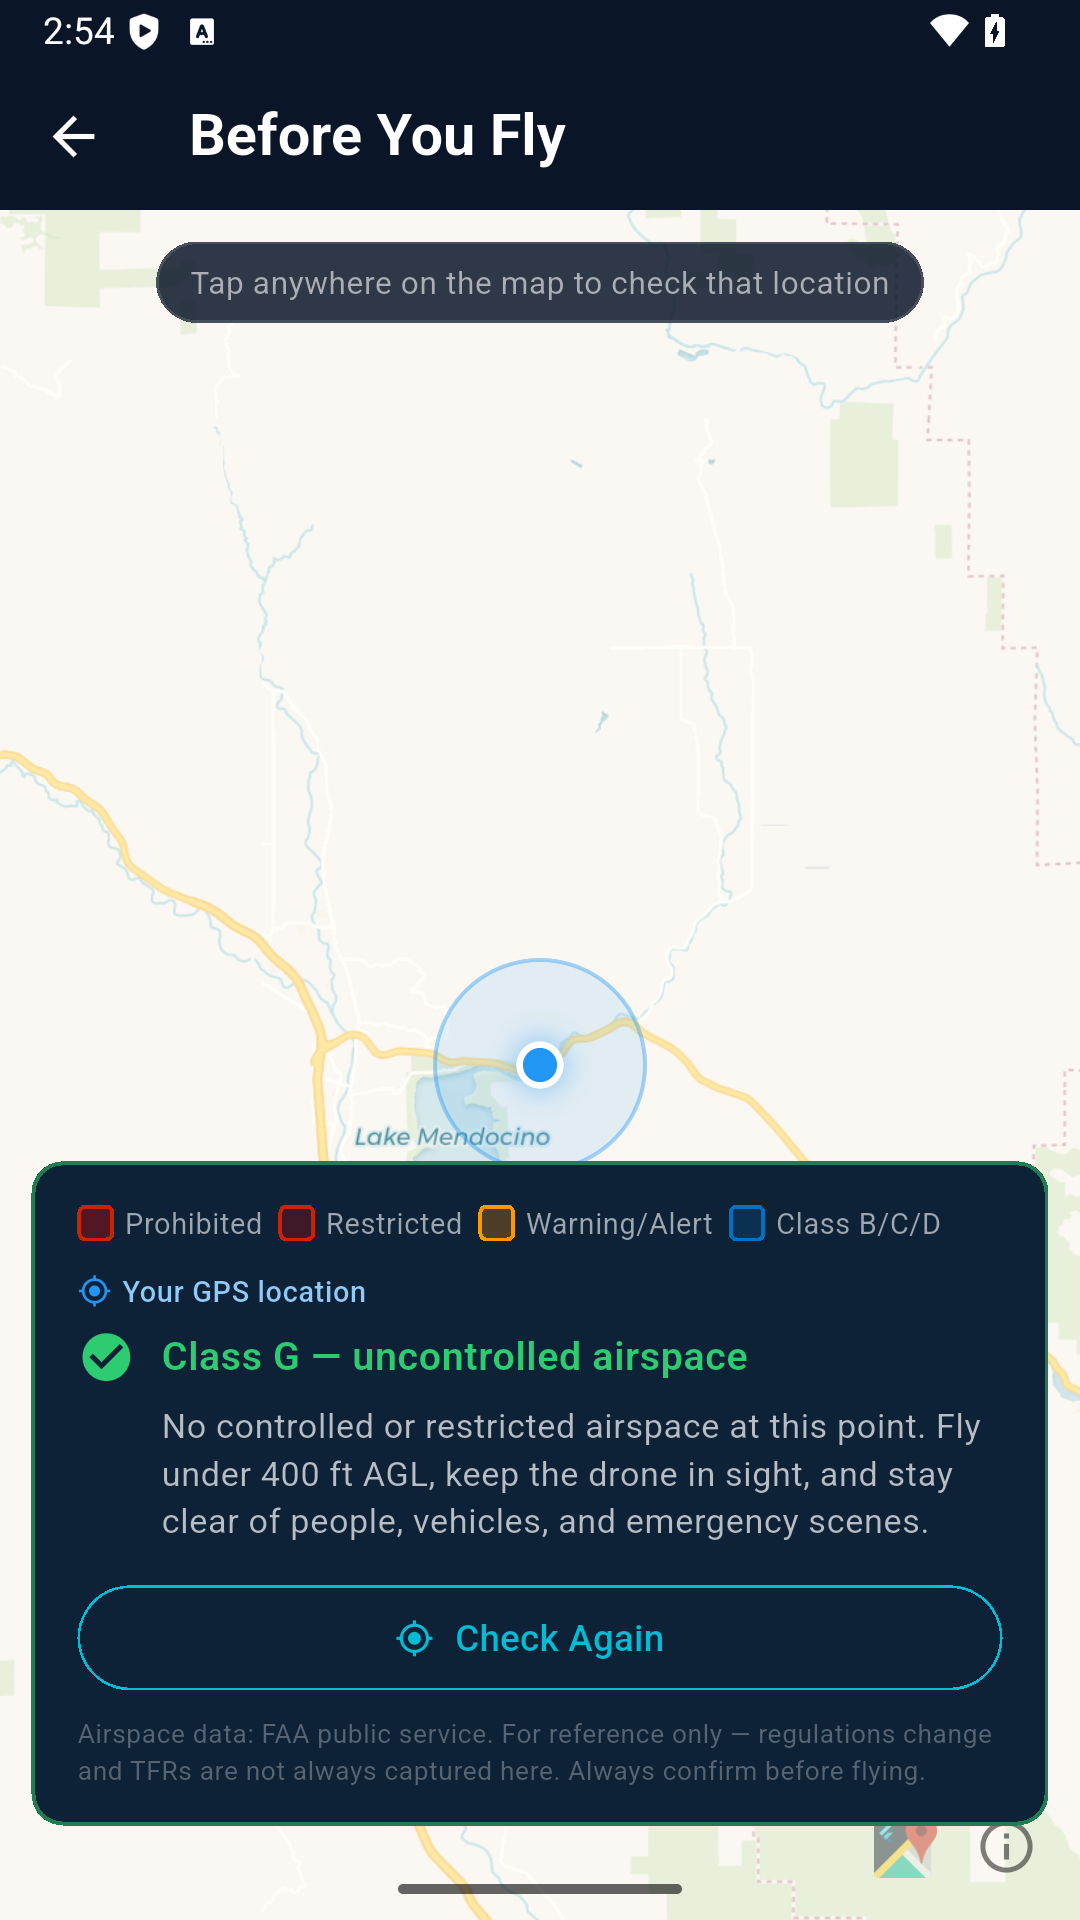
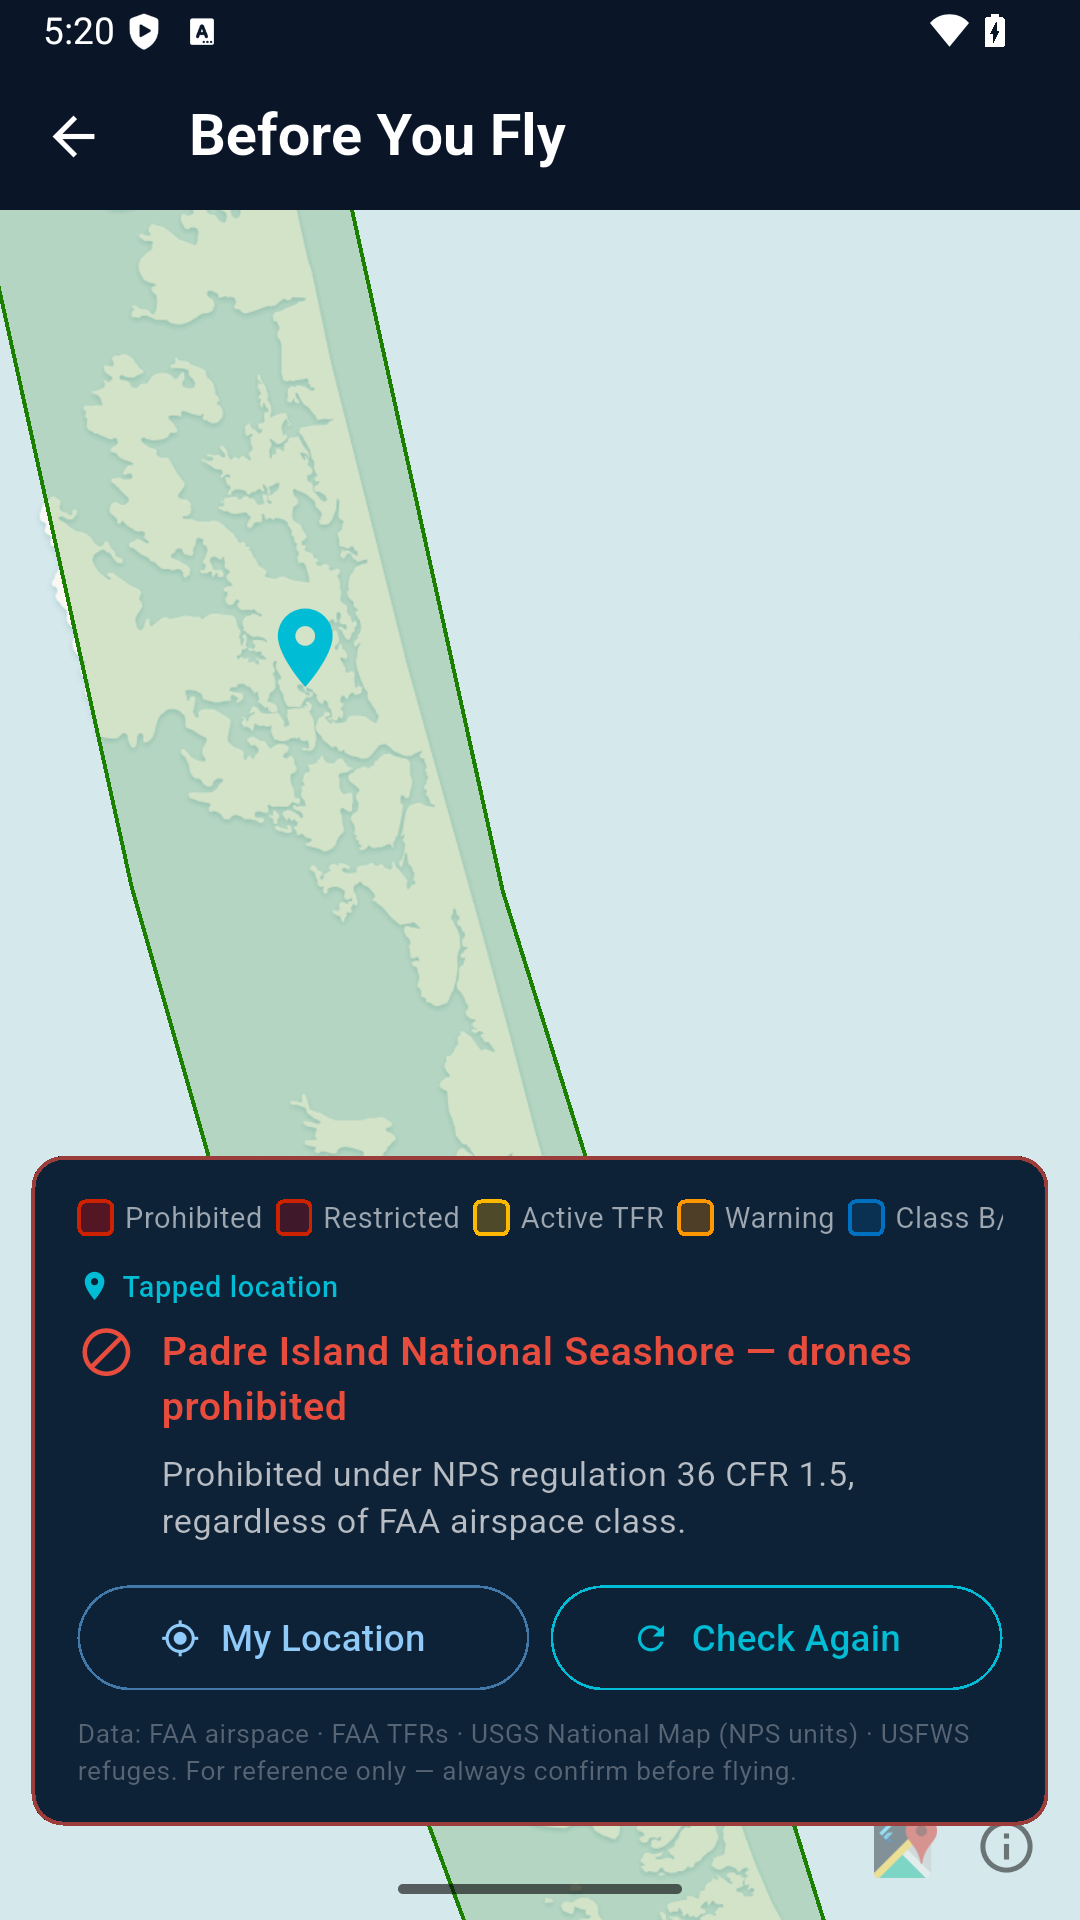
screenshots: update Before You Fly to show NPS and USFWS zones
Replace Lake Mendocino placeholder with Padre Island National Seashore
(drones prohibited, NPS green overlay) and San Bernard National Wildlife
Refuge (Special Use Permit required, USFWS purple overlay).

Also fix location_service.dart: use LocationAccuracy.high so geo fix
on hardware GPS is honoured instead of WiFi/network-only positioning.

diff --git a/tides_flutter/lib/services/location_service.dart b/tides_flutter/lib/services/location_service.dart
@@ -12,8 +12,8 @@ Future<(double, double, String)?> getLocation() async {
     if (effective == LocationPermission.always ||
         effective == LocationPermission.whileInUse) {
       final pos = await Geolocator.getCurrentPosition(
-          desiredAccuracy: LocationAccuracy.low,
-          timeLimit: const Duration(seconds: 10));
+          desiredAccuracy: LocationAccuracy.high,
+          timeLimit: const Duration(seconds: 15));
       return (pos.latitude, pos.longitude, 'your location');
     }
   } catch (_) {}
